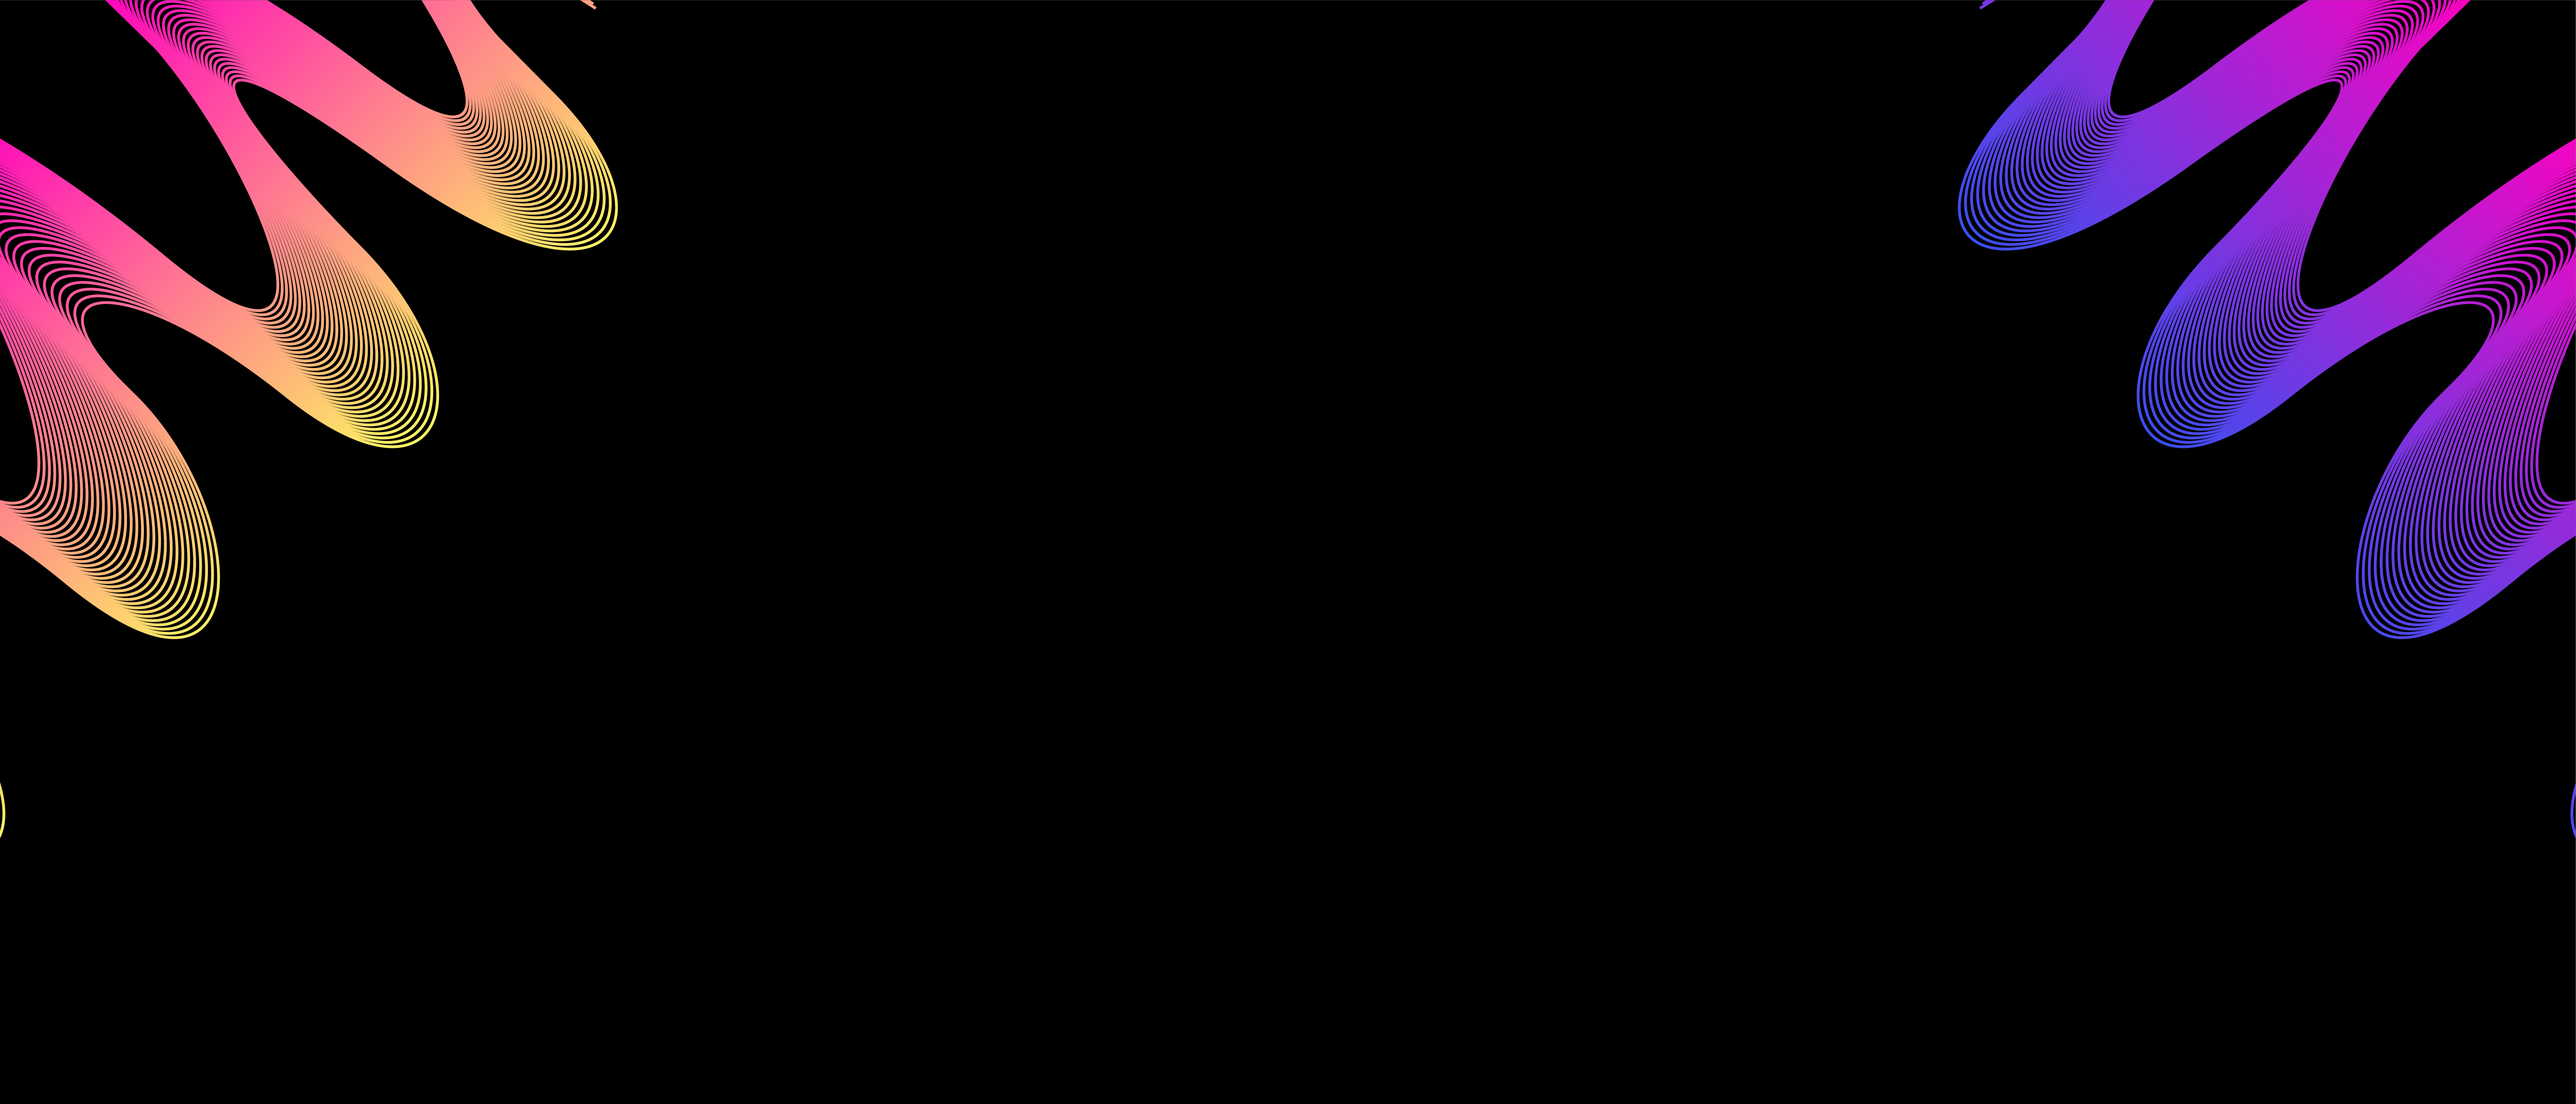
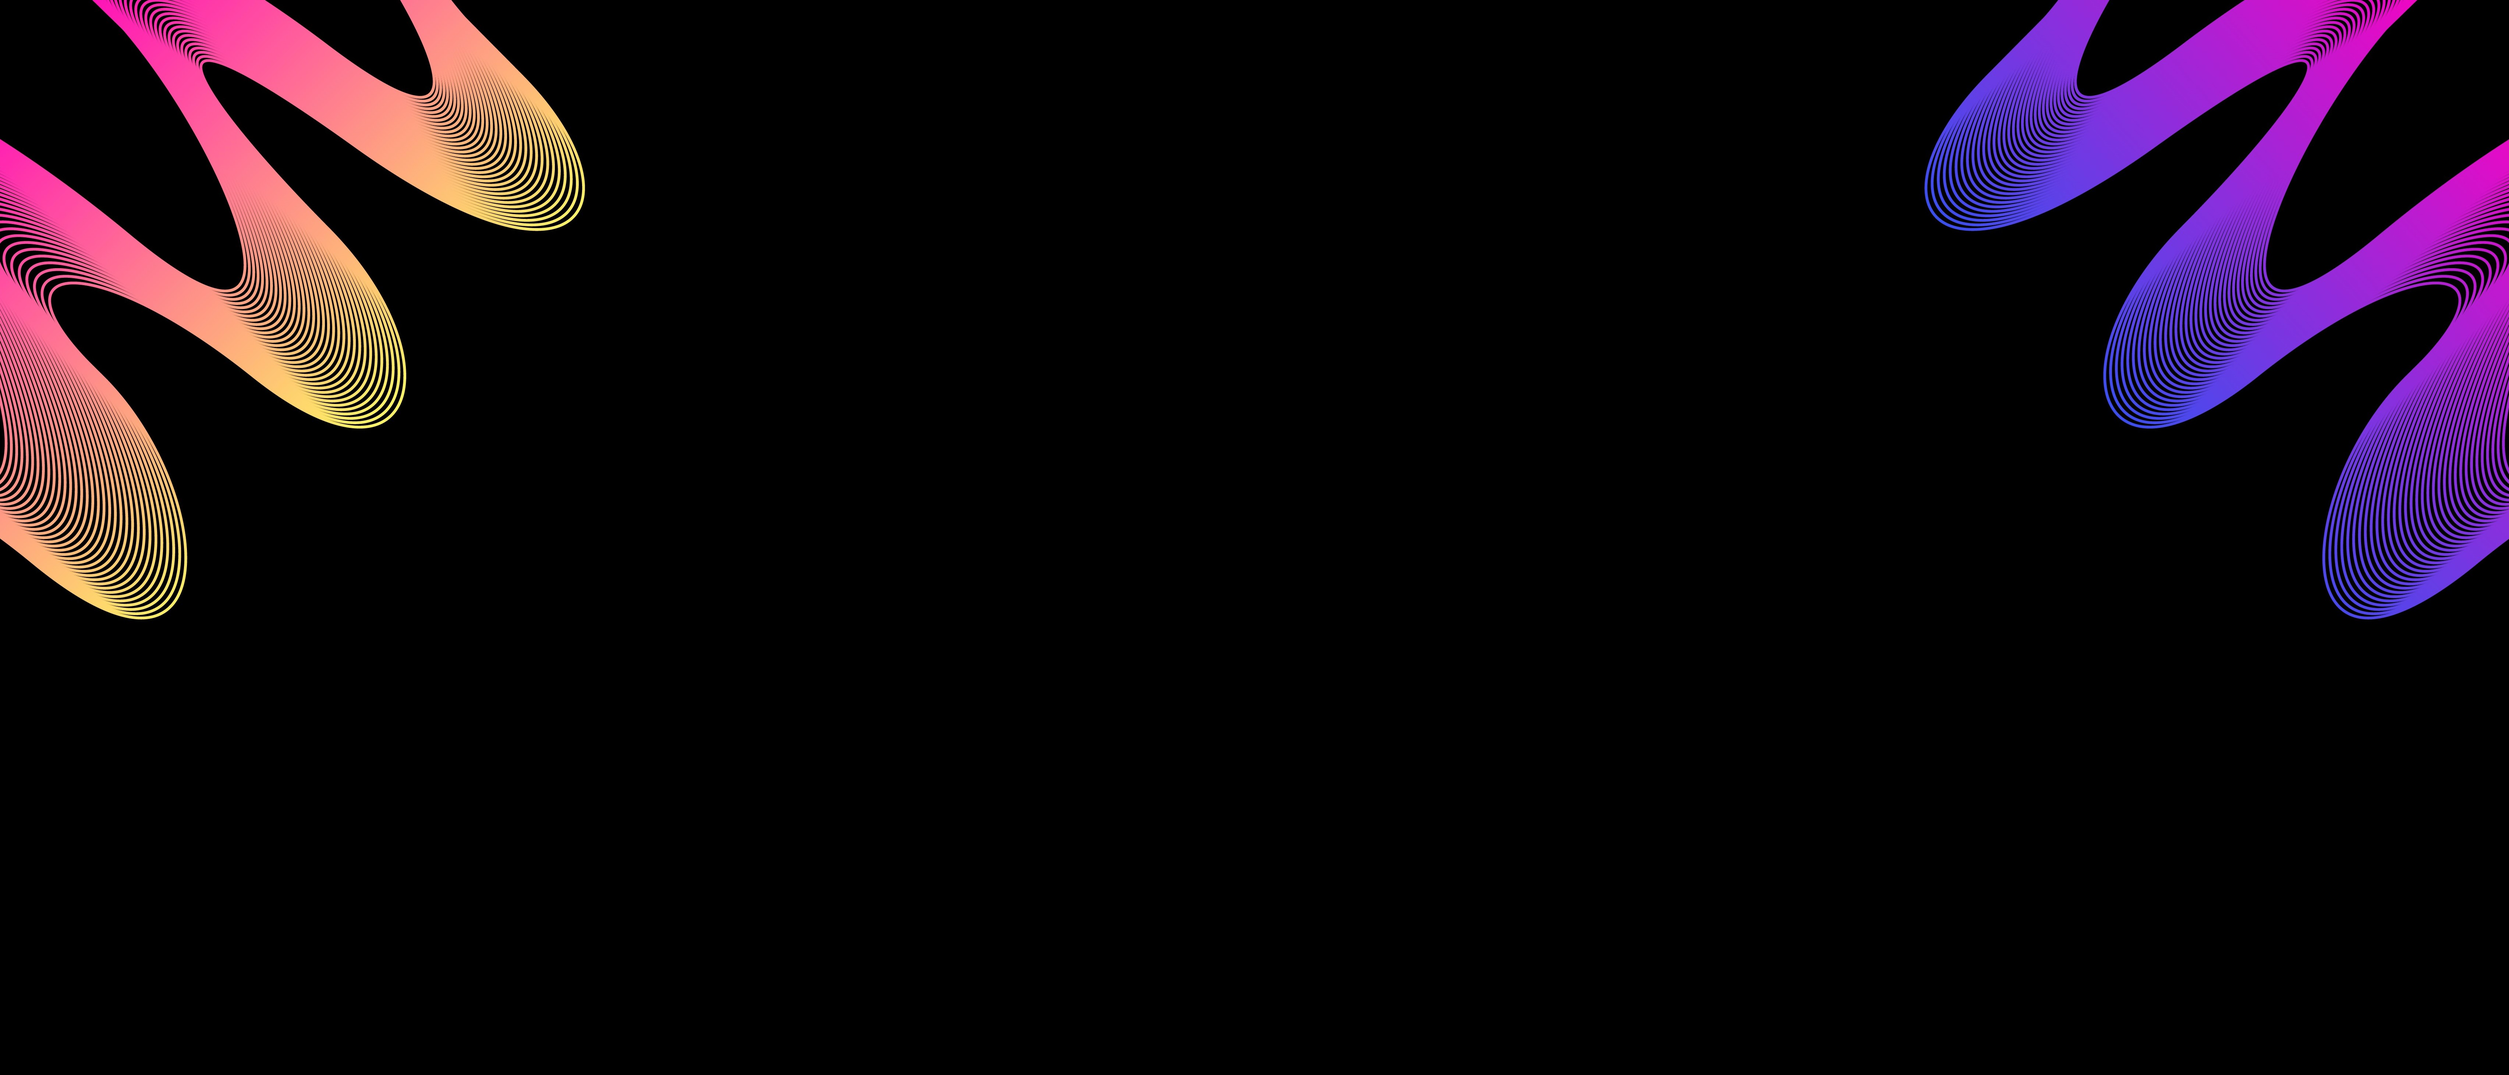
fix: background size and pixels bug

diff --git a/src/components/backgroundinverted.tsx b/src/components/backgroundinverted.tsx
@@ -6,9 +6,9 @@ export default function BackgroundInverted() {
             <Image 
                 src="/images/background.jpg" 
                 alt="background-image-inverted" 
-                className="background-image left-0 absolute z-0 transform rotate-180"
-                width={1920}
-                height={1080}
+                className="background-image right-0 absolute z-0 transform rotate-180"
+                width={5000}
+                height={5000}
                 quality={100}
                 priority
             />

diff --git a/src/components/background.tsx b/src/components/background.tsx
@@ -7,8 +7,8 @@ export default function Background(){
                 src="/images/background.jpg" 
                 alt="background-image" 
                 className="background-image left-0 absolute z-0"
-                width={1920}
-                height={1080}
+                width={5000}
+                height={5000}
                 quality={100}
                 priority
             />
